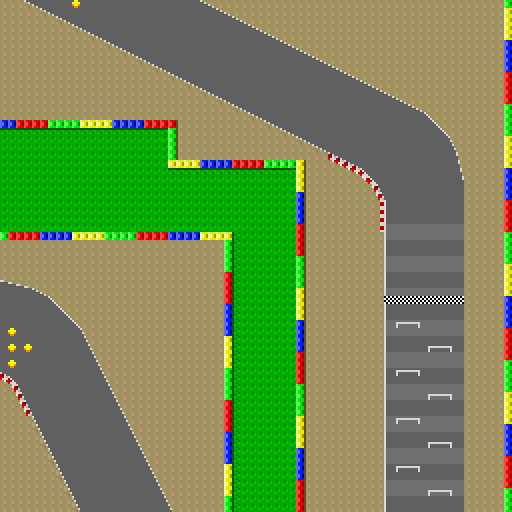
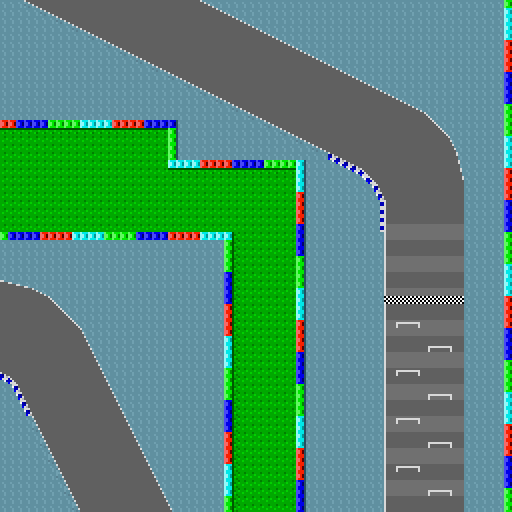
cleaned up map (remains small palette issue)

diff --git a/source/gameplay.c b/source/gameplay.c
@@ -65,20 +65,22 @@ static bool hasSavedBestTime = false;
 typedef struct {
     const unsigned int* tiles;
     const unsigned short* map;
+    const unsigned short* palette;  // ADDED: Each quadrant has its own palette
     unsigned int tilesLen;
+    unsigned int paletteLen;  // ADDED: Palette length
 } QuadrantData;
 
 static const QuadrantData quadrantData[9] = {
-    {scorching_sands_TLTiles, scorching_sands_TLMap, scorching_sands_TLTilesLen},
-    {scorching_sands_TCTiles, scorching_sands_TCMap, scorching_sands_TCTilesLen},
-    {scorching_sands_TRTiles, scorching_sands_TRMap, scorching_sands_TRTilesLen},
-    {scorching_sands_MLTiles, scorching_sands_MLMap, scorching_sands_MLTilesLen},
-    {scorching_sands_MCTiles, scorching_sands_MCMap, scorching_sands_MCTilesLen},
-    {scorching_sands_MRTiles, scorching_sands_MRMap, scorching_sands_MRTilesLen},
-    {scorching_sands_BLTiles, scorching_sands_BLMap, scorching_sands_BLTilesLen},
-    {scorching_sands_BCTiles, scorching_sands_BCMap, scorching_sands_BCTilesLen},
-    {scorching_sands_BRTiles, scorching_sands_BRMap, scorching_sands_BRTilesLen}};
-
+    {scorching_sands_TLTiles, scorching_sands_TLMap, scorching_sands_TLPal, scorching_sands_TLTilesLen, scorching_sands_TLPalLen},
+    {scorching_sands_TCTiles, scorching_sands_TCMap, scorching_sands_TCPal, scorching_sands_TCTilesLen, scorching_sands_TCPalLen},
+    {scorching_sands_TRTiles, scorching_sands_TRMap, scorching_sands_TRPal, scorching_sands_TRTilesLen, scorching_sands_TRPalLen},
+    {scorching_sands_MLTiles, scorching_sands_MLMap, scorching_sands_MLPal, scorching_sands_MLTilesLen, scorching_sands_MLPalLen},
+    {scorching_sands_MCTiles, scorching_sands_MCMap, scorching_sands_MCPal, scorching_sands_MCTilesLen, scorching_sands_MCPalLen},
+    {scorching_sands_MRTiles, scorching_sands_MRMap, scorching_sands_MRPal, scorching_sands_MRTilesLen, scorching_sands_MRPalLen},
+    {scorching_sands_BLTiles, scorching_sands_BLMap, scorching_sands_BLPal, scorching_sands_BLTilesLen, scorching_sands_BLPalLen},
+    {scorching_sands_BCTiles, scorching_sands_BCMap, scorching_sands_BCPal, scorching_sands_BCTilesLen, scorching_sands_BCPalLen},
+    {scorching_sands_BRTiles, scorching_sands_BRMap, scorching_sands_BRPal, scorching_sands_BRTilesLen, scorching_sands_BRPalLen}
+};
 //=============================================================================
 // Private Prototypes
 //=============================================================================
@@ -686,7 +688,9 @@ static void configureBackground(void) {
 
     BGCTRL[0] =
         BG_64x64 | BG_COLOR_256 | BG_MAP_BASE(0) | BG_TILE_BASE(1) | BG_PRIORITY(1);
-    dmaCopy(scorching_sands_TLPal, BG_PALETTE, scorching_sands_TLPalLen);
+    
+    // CHANGED: Don't load palette here - it will be loaded in loadQuadrant()
+    // based on currentQuadrant (which is QUAD_BR at start)
 
     // Sub screen setup with numbers tileset
     BGCTRL_SUB[0] = BG_32x32 | BG_COLOR_256 | BG_MAP_BASE(0) | BG_TILE_BASE(1);
@@ -696,8 +700,6 @@ static void configureBackground(void) {
     BG_PALETTE_SUB[1] = ARGB16(1, 0, 0, 0);
     memset(BG_MAP_RAM_SUB(0), 32, 32 * 32 * 2);
     updateChronoDisp_Sub(-1, -1, -1);
-    // Reserve BG1 on sub for console (4bpp, separate tile/map blocks)
-    // BGCTRL_SUB[1] = BG_32x32 | BG_COLOR_16 | BG_MAP_BASE(31) | BG_TILE_BASE(2);
 }
 
 // static void configureSprite(void) {
@@ -759,9 +761,15 @@ static void configureConsole(void) {
 //=============================================================================
 static void loadQuadrant(QuadrantID quad) {
     const QuadrantData* data = &quadrantData[quad];
-
+     // CHANGED: Clear the entire palette first to avoid color pollution
+    memset(BG_PALETTE, 0, 512);  // 256 colors × 2 bytes = 512 bytes
+    // CHANGED: Load tiles for this quadrant
     dmaCopy(data->tiles, BG_TILE_RAM(1), data->tilesLen);
+    
+    // CHANGED: Load palette for this quadrant
+    dmaCopy(data->palette, BG_PALETTE, data->paletteLen);
 
+    // Load the map data for this quadrant
     for (int i = 0; i < 32; i++) {
         dmaCopy(&data->map[i * 64], &BG_MAP_RAM(0)[i * 32], 64);
         dmaCopy(&data->map[i * 64 + 32], &BG_MAP_RAM(1)[i * 32], 64);
